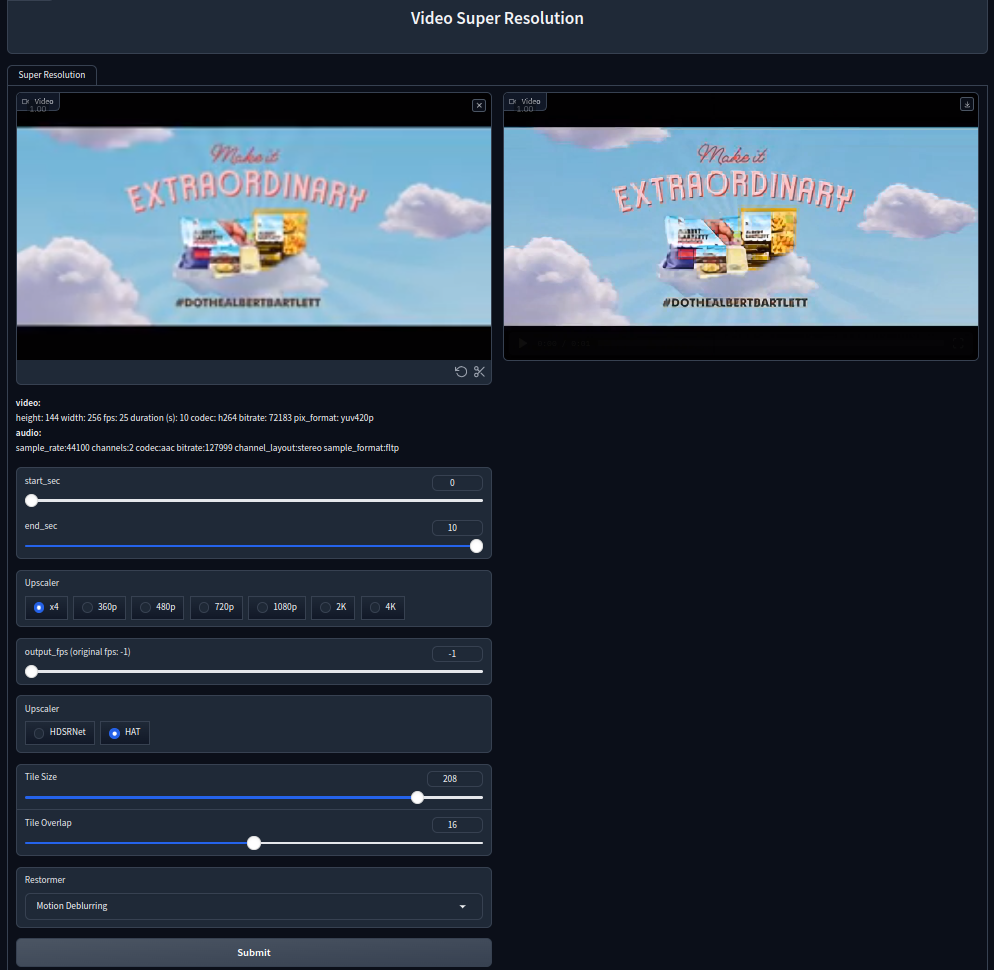
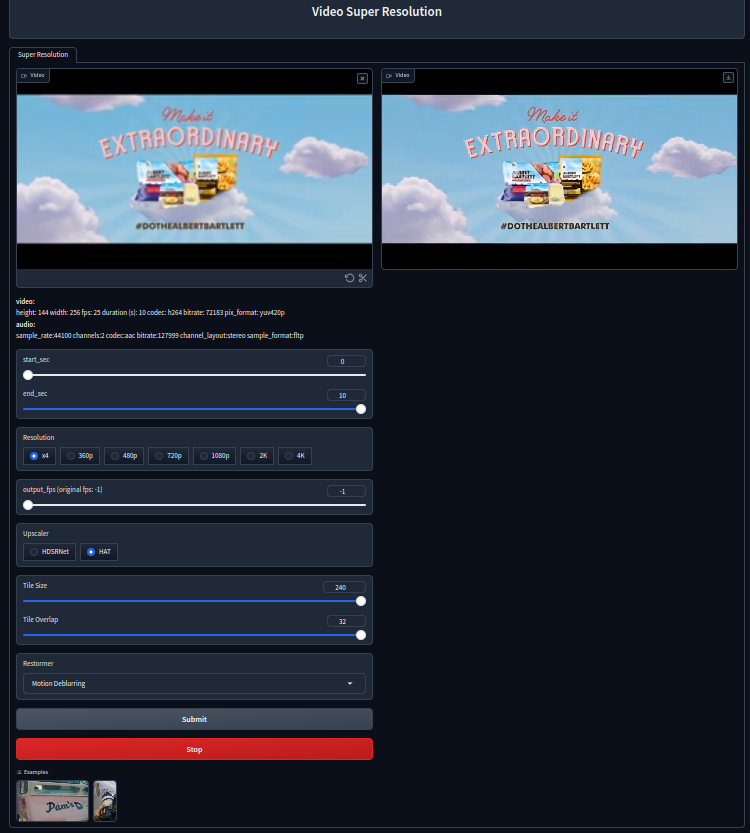
Add stop button & minor fixes

diff --git a/app.py b/app.py
@@ -18,6 +18,7 @@ container = None
 hat_model = None
 hdsrnet_model = None
 restormer_model = None
+should_continue = True
 
 
 def upscale(img, selected_model=None, tile_size=None, tile_overlap=None):
@@ -178,26 +179,27 @@ def predict_fn(filepath, start_sec, end_sec, resolution, out_fps=0, upscaler='HD
     Returns:
         str: Path to the output video file after processing.
     """
-    global container_constructor, container, hdsrnet_model, hat_model, restormer_model
+    global container_constructor, container, hdsrnet_model, hat_model, restormer_model, should_continue
+    should_continue = True
     # Check if input video is not None
     if filepath is None:
         return None
     # Check if input numeric values is Integer
+    if isinstance(start_sec, float):
+        start_sec = int(start_sec)
+        gr.Info(f"Start sec change to integer value {start_sec}")
+    if isinstance(end_sec, float):
+        end_sec = int(end_sec)
+        gr.Info(f"End sec change to integer value {end_sec}")
+    if isinstance(out_fps, float):
+        out_fps = int(out_fps)
+        gr.Info(f"Out fps change to integer value {out_fps}")
     if isinstance(tile_size, float):
         tile_size = int(tile_size)
         gr.Info(f"Tile size change to integer value {tile_size}")
     if isinstance(tile_overlap, float):
         tile_overlap = int(tile_overlap)
-        gr.Info(f"Tile overlap change to integer value {tile_size}")
-    if isinstance(start_sec, float):
-        start_sec = int(start_sec)
-        gr.Info(f"Start sec change to integer value {tile_size}")
-    if isinstance(end_sec, float):
-        end_sec = int(end_sec)
-        gr.Info(f"End sec change to integer value {tile_size}")
-    if isinstance(out_fps, float):
-        out_fps = int(out_fps)
-        gr.Info(f"Out fps change to integer value {tile_size}")
+        gr.Info(f"Tile overlap change to integer value {tile_overlap}")
     # Check input values validity
     if tile_size == 0:
         tile_size = None
@@ -236,12 +238,15 @@ def predict_fn(filepath, start_sec, end_sec, resolution, out_fps=0, upscaler='HD
                                         start_time=start_sec, duration=end_sec - start_sec)
     if out_fps == -1:
         out_fps = container.video_fps()
+        
     for b in progress.tqdm(range(0, end_sec - start_sec, MAX_DURATION_BATCH), desc='🎠 Clip'):
+        if not should_continue:
+            break
         b_start = b + start_sec
         clip_duration = MAX_DURATION_BATCH if b_start+MAX_DURATION_BATCH<=end_sec else end_sec - b_start
         logger.debug("🎠 Clip {}s - {}s".format(b_start, b_start+clip_duration))
         for i in progress.tqdm(range(0, MAX_DURATION_BATCH if b_start+MAX_DURATION_BATCH<=end_sec else end_sec - b_start, frame_len), desc='🖼 Processing step'):
-            if b_start + i > container.total_duration:
+            if b_start + i > container.total_duration or not should_continue:
                 break
             logger.debug(f"🖼 Processing step {i + 1}/{MAX_DURATION_BATCH if b_start+MAX_DURATION_BATCH<=end_sec else end_sec - b_start}...")
             video, audio = None, None
@@ -249,6 +254,9 @@ def predict_fn(filepath, start_sec, end_sec, resolution, out_fps=0, upscaler='HD
                 video, audio = inference_step(vid=container, duration=frame_len, resolution=resolution, out_fps=out_fps, upscaler=upscaler, tile_size=tile_size, tile_overlap=tile_overlap, restormer_task=restormer_task)
             except torch.cuda.OutOfMemoryError:
                 gr.Warning('Cuda out of memory on server. Please set appropriate Tile size and Tile overlap')
+                return None
+            except np.core._exceptions._ArrayMemoryError:
+                gr.Warning('Ouf RAM. Try to change MAX_DURATION_BATCH parameter in shared.py module')
                 return None
             if i == 0:
                 video_all = np.zeros([out_fps*clip_duration, video.shape[1], video.shape[2], video.shape[3]], np.uint8)
@@ -262,9 +270,17 @@ def predict_fn(filepath, start_sec, end_sec, resolution, out_fps=0, upscaler='HD
         container.remux(video_all, audio_all)
         del audio_all
         del video_all
+    if not container.outSink:
+        logger.info(f"Stop before inference step. Empty output")
+        return None
     container.close()
     logger.info(f"✅ Done!")
     return OUTPUT_PATH+name+'.mp4'
+
+def stop_inference():
+    global should_continue
+    should_continue = False
+    gr.Info(f"Stopping... Please wait")
 
 def on_video_change(filepath, start_sec, out_fps):
     """
@@ -284,7 +300,7 @@ def on_video_change(filepath, start_sec, out_fps):
     """
     if filepath is None:
         stats = ""
-        return start_sec, out_fps, stats, None
+        return start_sec, out_fps, stats, None, gr.Button(value="Stop", visible=True, variant='stop',interactive=False)
     global container
     logger.info(f"📹 Input video: {filepath.split('/')[-1]}")
     name = os.path.splitext(os.path.basename(filepath))[0]
@@ -304,7 +320,7 @@ def on_video_change(filepath, start_sec, out_fps):
     outputs_video = None
     return [gr.Slider(value=start_sec if start_sec<max_duration else 0, maximum=max_duration), 
             gr.Slider(value=round(max_duration) , maximum=max_duration),\
-            stats, outputs_video
+            stats, outputs_video, gr.Button(value="Stop", visible=True, variant='stop',interactive=True)
             ]
 
 def main_tab():
@@ -330,21 +346,23 @@ def main_tab():
             with gr.Group() as upscaler_setup:
                 upscaler = gr.Radio(choices=['HDSRNet','HAT'], label="Upscaler",value='HDSRNet', interactive=True)
             with gr.Group() as tiling_setup:
-                tile_size = gr.Slider(minimum=0, maximum=240, value=208, step=8, label="Tile Size (disabled: 0)", visible=True)
-                tile_overlap = gr.Slider(minimum=0, maximum=32, value=16, step=8, label="Tile Overlap (disabled: 0)", visible=True)
+                tile_size = gr.Slider(minimum=0, maximum=240, value=208, step=8, label="Tile Size", visible=True)
+                tile_overlap = gr.Slider(minimum=0, maximum=32, value=16, step=8, label="Tile Overlap", visible=True)
             with gr.Row():
                 restormer_task = gr.Dropdown(value='Disabled', choices=['Disabled','Motion Deblurring','Real Denoising', 'Deraining'], label='Restormer', interactive=True)
             with gr.Group() as control:
                 with gr.Row():
                     submit = gr.Button("Submit")
+            stop_button = gr.Button(value="Stop", visible=True, variant='stop',interactive=False)
         with gr.Column():
             outputs_video = gr.Video(interactive=False)
     examples = gr.Examples([
-        ['./assets/examples/video_example_1_donut_240p.mp4'],
+        ['./assets/examples/video_example_1_donut_144p.mp4'],
         ['./assets/examples/video_example_2_photo_240p.mp4']
     ], inputs=[inputs_video, start_sec, end_sec], outputs=[inputs_video])
     submit.click(fn=predict_fn, inputs=[inputs_video, start_sec, end_sec, resolution, out_fps, upscaler, tile_size, tile_overlap, restormer_task], outputs=[outputs_video])
-    inputs_video.change(fn=on_video_change, inputs=[inputs_video, start_sec, out_fps], outputs=[start_sec, end_sec, stats, outputs_video])
+    inputs_video.change(fn=on_video_change, inputs=[inputs_video, start_sec, out_fps], outputs=[start_sec, end_sec, stats, outputs_video, stop_button])
+    stop_button.click(fn=stop_inference)
 
 with gr.Blocks(title="Video Super Resolution") as app:
     gr.Label("Video Super Resolution")

diff --git a/modules/restormer.py b/modules/restormer.py
@@ -35,7 +35,7 @@ def init_restormer(restormer_task):
     # Get model weights and parameters
     model_path = RESTORMER_WEIGHTS[restormer_task]
     if not os.path.exists(model_path):
-        gr.Info("Downloading Restormer model weights for {restormer_task}. Please wait...")
+        gr.Info(f"Downloading Restormer model weights for {restormer_task}. Please wait...")
         logger.debug(f'Downloading Restormer model weights for {restormer_task} task to {RESTORMER_BASE_MODELS_PATH}')
         if not os.path.exists(RESTORMER_BASE_MODELS_PATH):
             os.mkdir(RESTORMER_BASE_MODELS_PATH)
